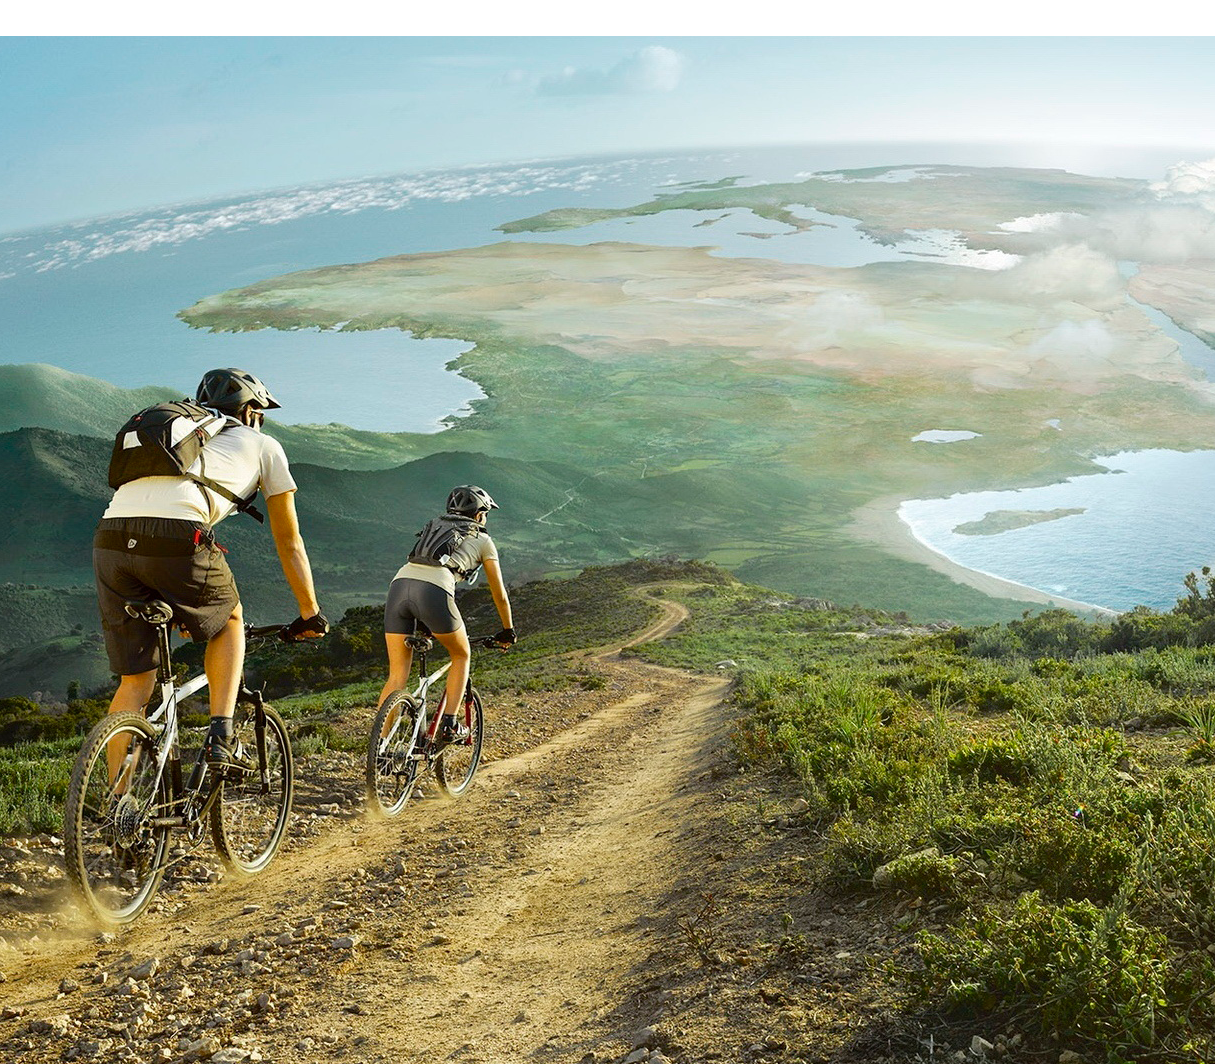
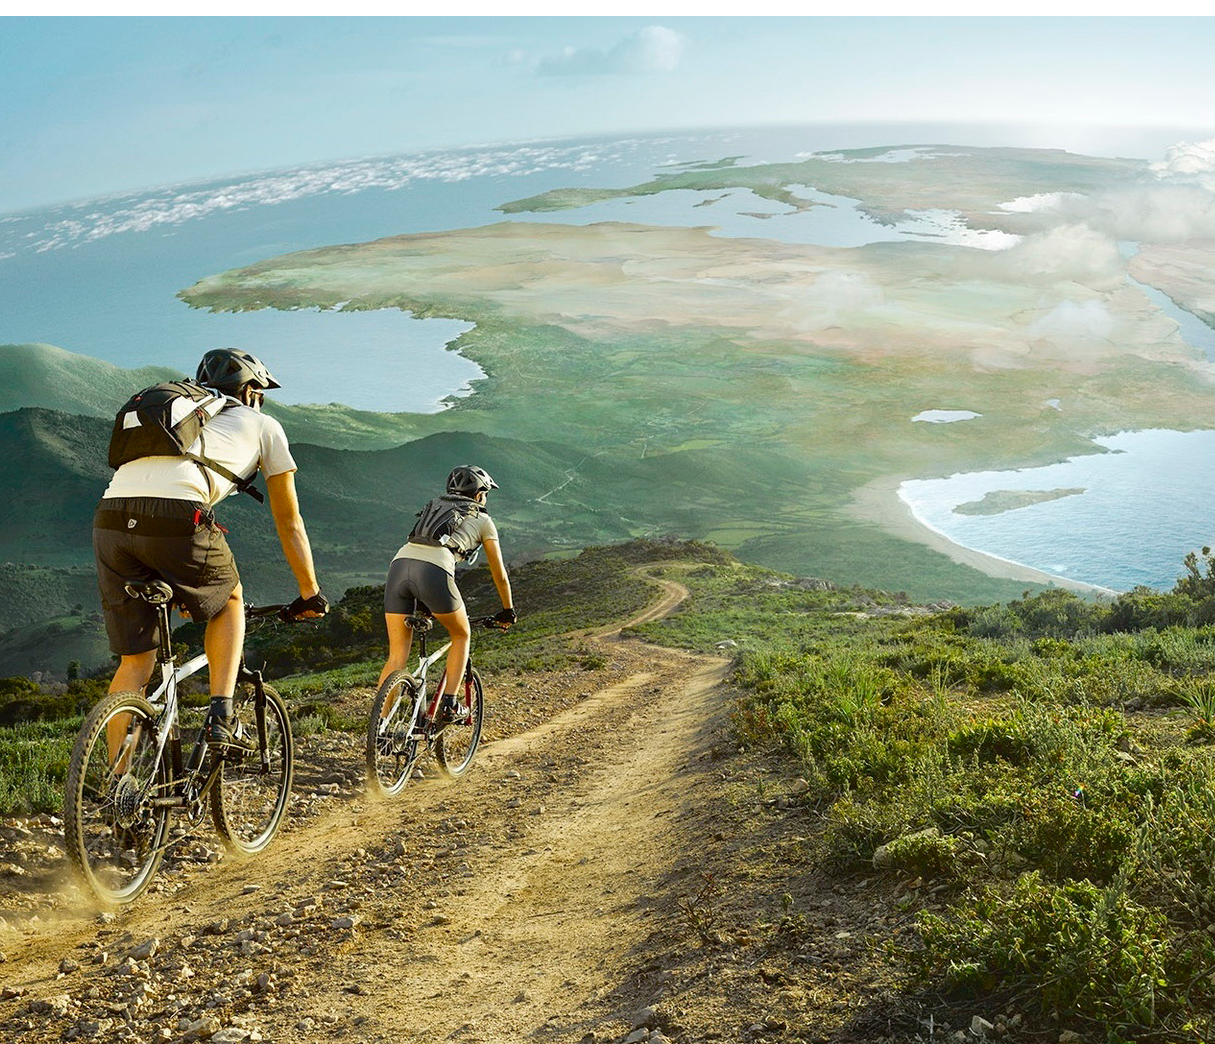
changes

diff --git a/index5.html b/index5.html
@@ -11,9 +11,10 @@
      background: url(img/backg.png)  no-repeat;
      color: #fff;
      background-position: center 0;
-     width: 1215px;
+     width: 100%;
      height: 100%;
      margin: 0 auto;
+     background-size: cover;
     }
 
     </style>
@@ -33,16 +34,16 @@
       <section class="wrapper">
         <div class="small"><div class="cad">Cadastre-se</div></div>
         <div class="big">
-          <a href="https://uk-ua.facebook.com/"><img src="img/face.png" alt="Facebook"></a>
+          <a href="https://uk-ua.facebook.com/"><img class="face" src="img/face.png" alt="Facebook"></a>
           <img src="img/ou.png" alt="ou">
           <form action="#">
-          <input type="text" name="First Name" placeholder="First Name"><br>
-          <input type="text" name="Last Name" placeholder="Last Name"><br>
-          <input type="text" name="Email Address" placeholder="Email Address"><br>
-          <input type="text" name="Choose Password" placeholder="Choose Password"><br>
-          <input type="text" name="Password Confirm" placeholder="Password Confirm"><br>
-          <input type="checkbox" id="Sendme"><div class="text">Send me Youbike updates and tips</div>
-          <input type="submit" value="Create my Account"  id="but">
+          <div><input type="text" name="First Name" placeholder="First Name"></div>
+          <div><input type="text" name="Last Name" placeholder="Last Name"></div>
+          <div><input type="text" name="Email Address" placeholder="Email Address"></div>
+          <div><input type="text" name="Choose Password" placeholder="Choose Password"></div>
+          <div><input type="text" name="Password Confirm" placeholder="Password Confirm"></div>
+          <div><input type="checkbox" id="Sendme"><div class="text">Send me Youbike updates and tips</div></div>
+          <div><input type="submit" value="Create my Account"  id="but"></div>
           <div class="policy">By clicking the button above, you agree to the Terms of Service<br>Xiew our rivacy Policy.</div>
         </div>
       </form>

diff --git a/css/css5.css b/css/css5.css
@@ -98,13 +98,23 @@ margin-top: 2px;
 .big img {
 margin-top: 26px;
 }
+.face:hover {
+  background-color: #415ea7;
+
+}
 form {
-margin-top: 6px;
+  padding-top: 10px;
+
+}
+form div {
+  width: 270px;
+  height: 40px;
+  padding-top: 15px;
+  margin: 0 auto;
 }
 form input {
 width: 256px;
 height: 37px;
-margin-top: 15px;
 background-color: black;
 font-family: 'Helvetica Neue Regular', Tahoma, suns-serif;
 font-size: 14px;
@@ -117,7 +127,7 @@ border-top: none;
 transition: all 0.30s ease-in-out;
 -webkit-transition: all 0.30s ease-in-out;
 -moz-transition: all 0.30s ease-in-out;
-outline:none;
+outline: none;
 }
 form input:focus {
 background-color: #1b5288;
@@ -126,23 +136,25 @@ border:#35a5e5 1px solid;
 box-shadow: 0 0 5px rgba(81, 203, 238, 1);
 -webkit-box-shadow: 0 0 5px rgba(81, 203, 238, 1);
 -moz-box-shadow: 0 0 5px rgba(81, 203, 238, 1);
+
+}
+form input:hover {
+  background-color: #415ea7;
 }
 #Sendme {
-padding-right: 5px;
-margin-left: -262px;
-margin-top: 20px;
+padding-right: 100px;
+margin-left: -265px;
+margin-top: 1px;
 width: 12px;
 height: 12px;
-
 text-align: left;
 }
 .text {
 width: 300px;
 top: 780px;
-left: 850px;
 color: #cccccc;
-margin-top: -19px;
-margin-left: 120px;
+margin-top: -33px;
+margin-left: -20px;
 }
 #but {
 width: 154px;
@@ -154,13 +166,16 @@ font-size: 14px;
 background-color: #4299d2;
 font-style: bold;
 color: white;
+margin-top: -15px;
 }
 #but:hover {
-background-color: #50aedb;
+background-color: #253ffb;
 }
 .policy {
 color: #cccccc;
 font-family: 'Helvetica Neue Regular', Tahoma, suns-serif;
 font-size: 11px;
-margin-top: 20px;
+margin-top: -10px;
+width: 350px;
+height: 38px;
 }
